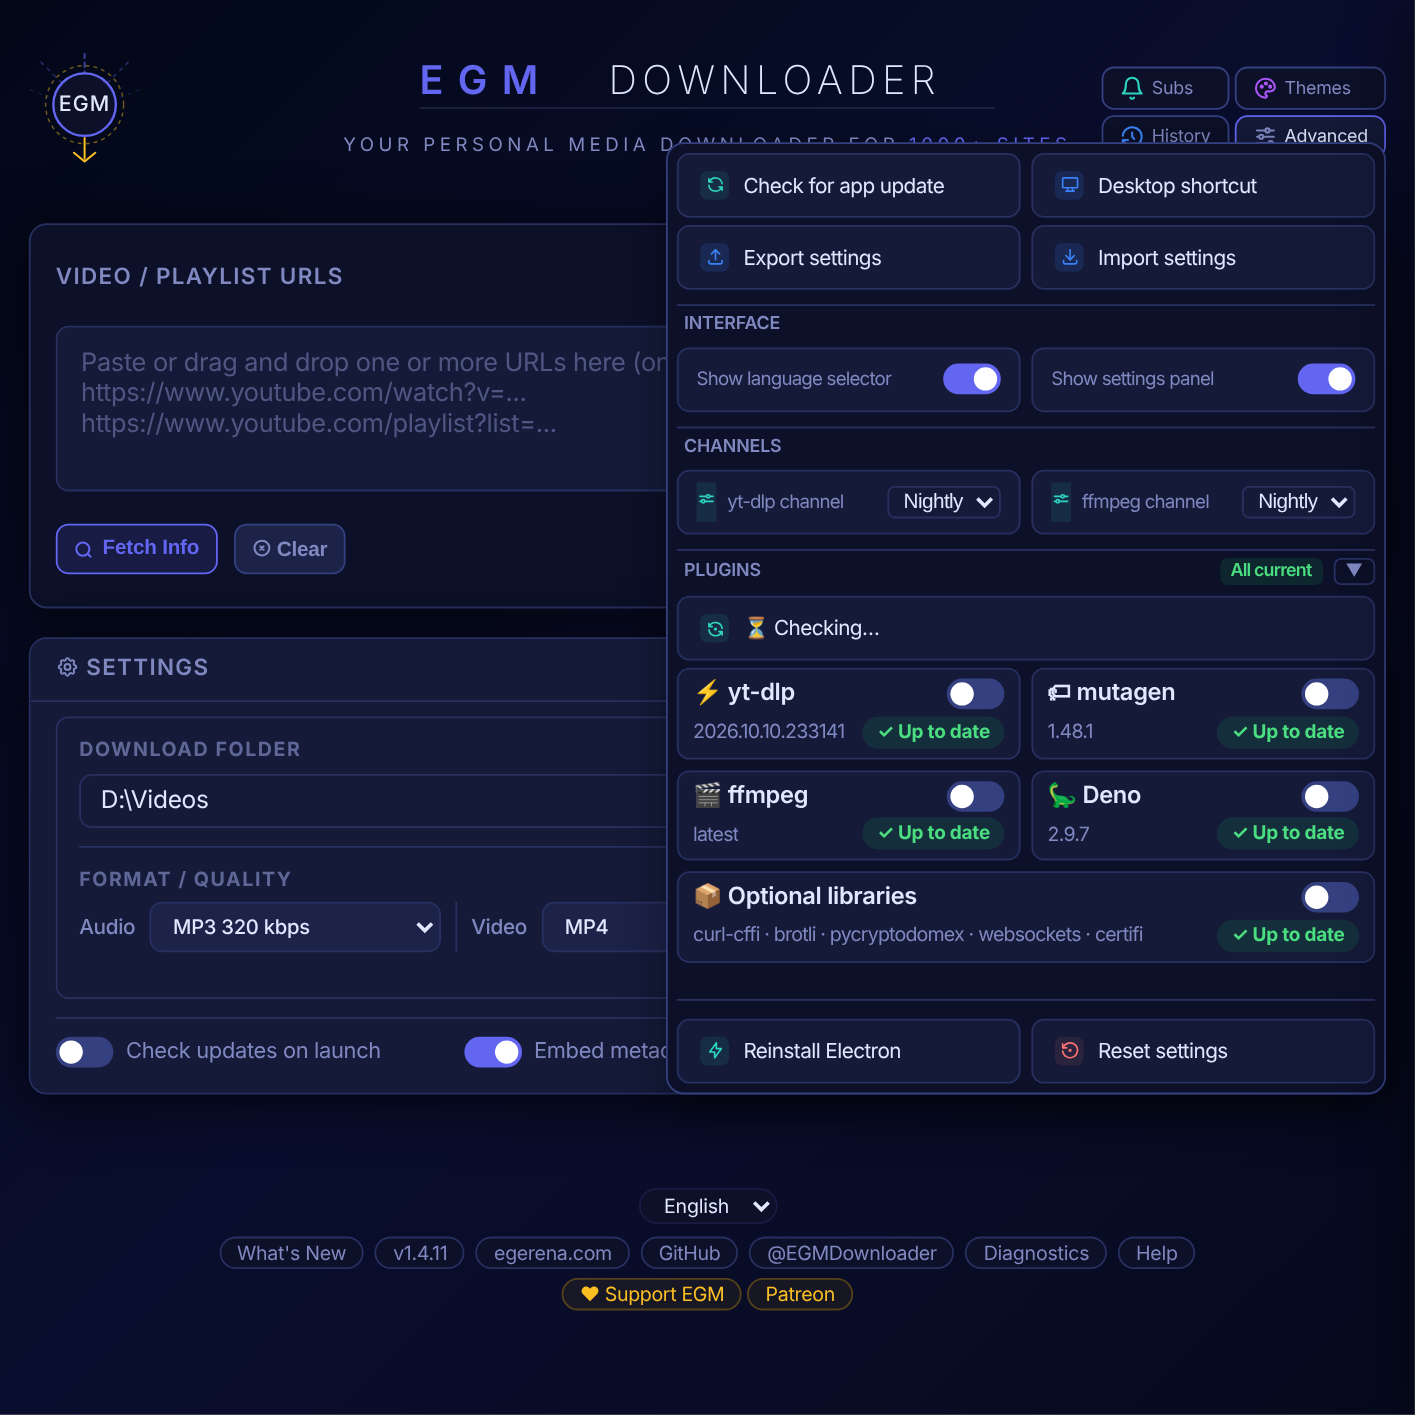
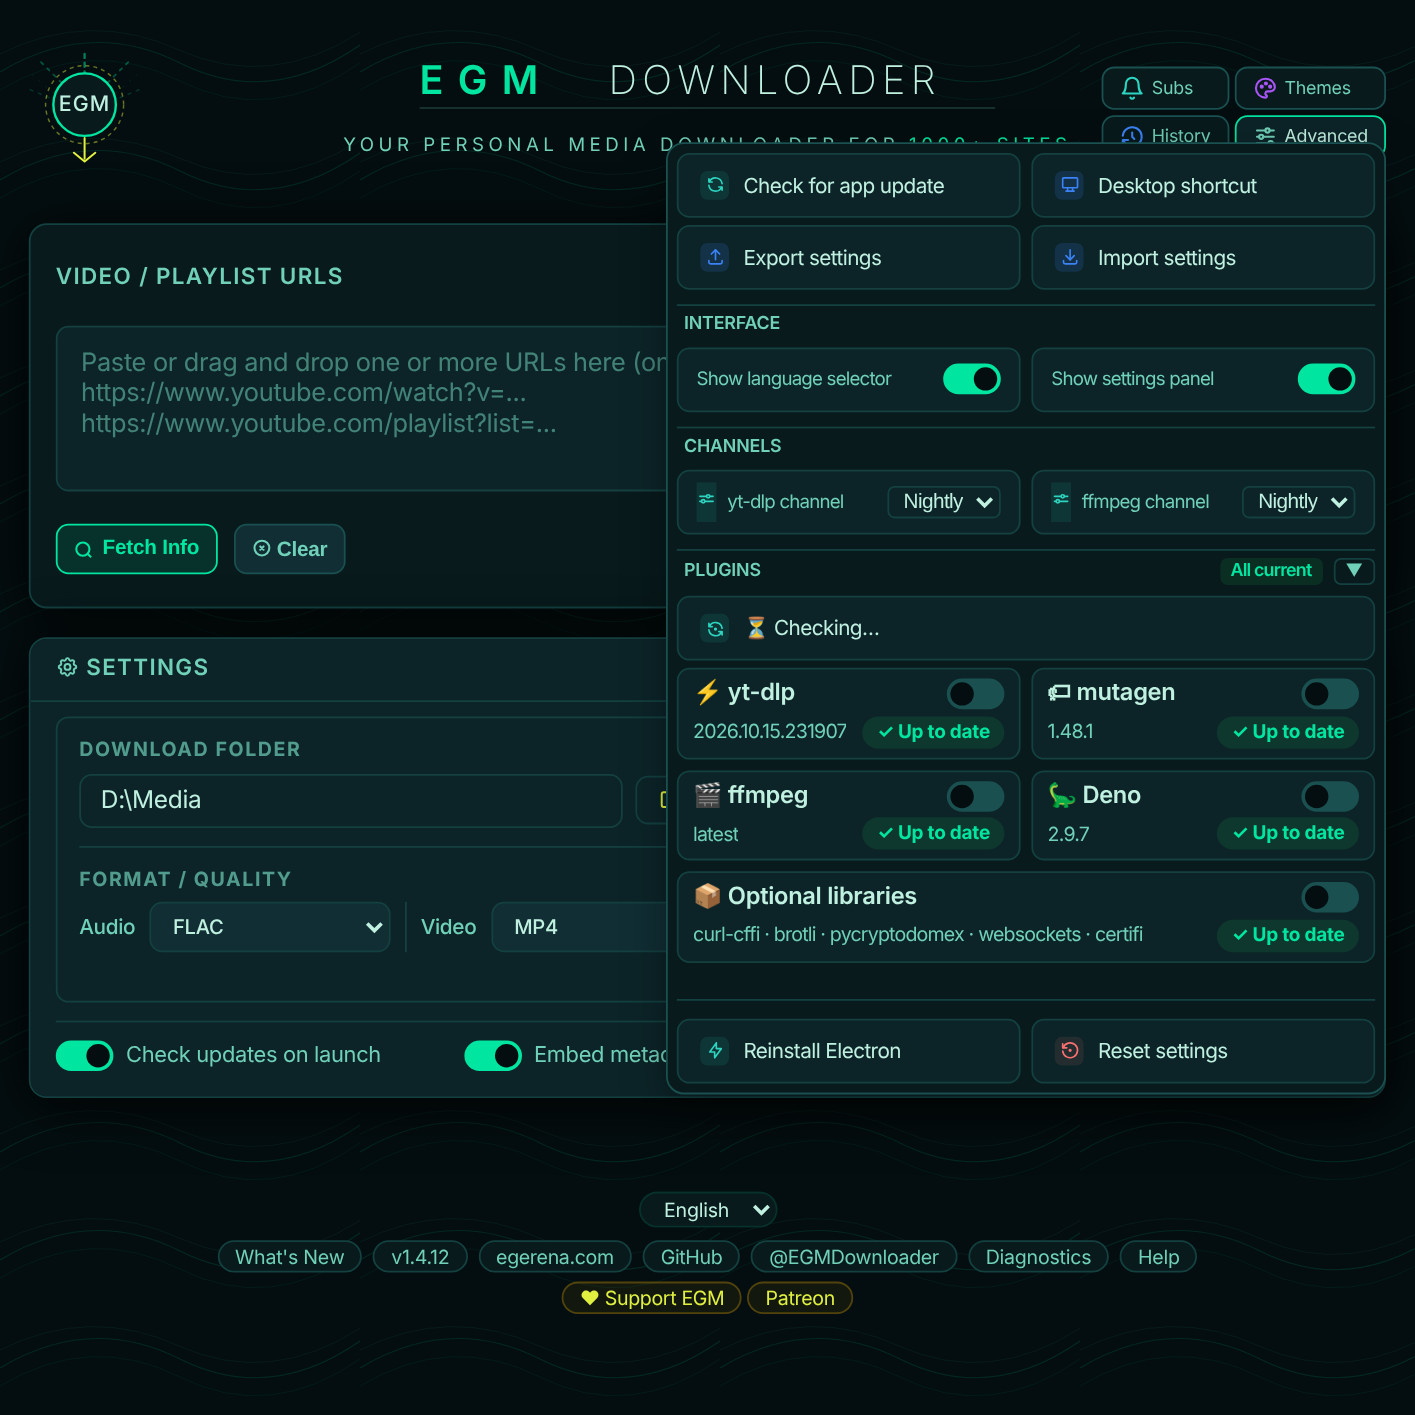
docs: README screenshots updated for v1.4.12
Seven new pictures of v1.4.12 in the same layout: main UI, advanced panel,
all themes, subscriptions, the advanced panel with the plugins list and the
download history, each in a different theme (Coral Reef Light, Vaporwave,
Amiga, macOS Big Sur, Aurora, Merlot). The splash screen is unchanged. The
caption names the release and the theme labels follow the pictures.

diff --git a/README.md b/README.md
@@ -83,7 +83,7 @@ A side by side look at one well known alternative, using details you can check y
 
 ## 🖼 Screenshots
 
-> 📸 *Screenshots of v1.4.11, LAST CALL: THE RETURN OF ELECTRON. The UI is identical across Windows, macOS, and Linux.*
+> 📸 *Screenshots of v1.4.12, ELECTRON STRIKES BACK. The UI is identical across Windows, macOS, and Linux.*
 
 <table>
   <tr>
@@ -92,12 +92,12 @@ A side by side look at one well known alternative, using details you can check y
       <br/><sub><b>Splash Screen</b></sub>
     </td>
     <td align="center" width="33%">
-      <a href="screenshots/02-main-ui.png"><img src="screenshots/02-main-ui.png" width="260" alt="Main UI, Bauhaus theme"/></a>
-      <br/><sub><b>Main UI</b> (Bauhaus theme)</sub>
+      <a href="screenshots/02-main-ui.png"><img src="screenshots/02-main-ui.png" width="260" alt="Main UI, Coral Reef Light theme"/></a>
+      <br/><sub><b>Main UI</b> (Coral Reef Light theme)</sub>
     </td>
     <td align="center" width="33%">
-      <a href="screenshots/03-advanced-panel.png"><img src="screenshots/03-advanced-panel.png" width="260" alt="Advanced Panel, La Parguera theme"/></a>
-      <br/><sub><b>Advanced Panel</b> (La Parguera theme)</sub>
+      <a href="screenshots/03-advanced-panel.png"><img src="screenshots/03-advanced-panel.png" width="260" alt="Advanced Panel, Vaporwave theme"/></a>
+      <br/><sub><b>Advanced Panel</b> (Vaporwave theme)</sub>
     </td>
   </tr>
 </table>
@@ -105,12 +105,12 @@ A side by side look at one well known alternative, using details you can check y
 <table>
   <tr>
     <td align="center" width="50%">
-      <a href="screenshots/04-all-themes.png"><img src="screenshots/04-all-themes.png" width="400" alt="All Themes, N64 theme"/></a>
-      <br/><sub><b>All Themes</b> (N64 theme)</sub>
+      <a href="screenshots/04-all-themes.png"><img src="screenshots/04-all-themes.png" width="400" alt="All Themes, Amiga theme"/></a>
+      <br/><sub><b>All Themes</b> (Amiga theme)</sub>
     </td>
     <td align="center" width="50%">
-      <a href="screenshots/05-subscriptions.png"><img src="screenshots/05-subscriptions.png" width="400" alt="Subscriptions, Windows 11 theme"/></a>
-      <br/><sub><b>Subscriptions</b> (Windows 11 theme)</sub>
+      <a href="screenshots/05-subscriptions.png"><img src="screenshots/05-subscriptions.png" width="400" alt="Subscriptions, Big Sur theme"/></a>
+      <br/><sub><b>Subscriptions</b> (Big Sur theme)</sub>
     </td>
   </tr>
 </table>
@@ -118,12 +118,12 @@ A side by side look at one well known alternative, using details you can check y
 <table>
   <tr>
     <td align="center" width="50%">
-      <a href="screenshots/06-advanced-plugins.png"><img src="screenshots/06-advanced-plugins.png" width="324" alt="Advanced Panel with the plugins list, Midnight theme"/></a>
-      <br/><sub><b>Advanced Panel, Plugins</b> (Midnight theme)</sub>
+      <a href="screenshots/06-advanced-plugins.png"><img src="screenshots/06-advanced-plugins.png" width="324" alt="Advanced Panel with the plugins list, Aurora theme"/></a>
+      <br/><sub><b>Advanced Panel, Plugins</b> (Aurora theme)</sub>
     </td>
     <td align="center" width="50%">
-      <a href="screenshots/07-download-history.png"><img src="screenshots/07-download-history.png" width="400" alt="Download History, Kali Linux theme"/></a>
-      <br/><sub><b>Download History</b> (Kali Linux theme)</sub>
+      <a href="screenshots/07-download-history.png"><img src="screenshots/07-download-history.png" width="400" alt="Download History, Merlot theme"/></a>
+      <br/><sub><b>Download History</b> (Merlot theme)</sub>
     </td>
   </tr>
 </table>
